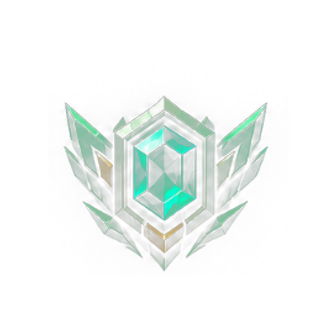
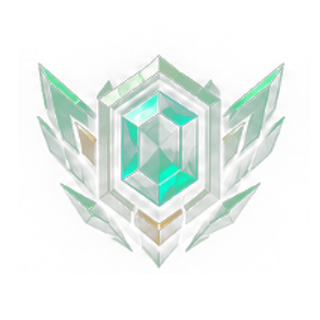
Fix badge centering (reflection ghost was skewing it) and make bigger
Iron, Bronze, Platinum, Silver, and Copper were visibly off-center in
their ring. Root cause: several of the source renders have a faint
reflection ghosted below the main badge, and it was bright enough to
get counted as part of the "solid" silhouette when measuring where to
center the crop — pulling the computed center downward by however far
that reflection extended. Raised the brightness threshold used to
detect the solid badge silhouette so the dimmer reflection no longer
counts, and switched from a brightness-weighted centroid to the
geometric midpoint of the solid bounding box, which is less sensitive
to any one bright feature (a highlight, a gem facet) sitting off to one
side. Confirmed with a center-crosshair overlay before regenerating
the real files.

Also tightened the crop margin so each badge fills more of its own
canvas (2.35x its own mass-weighted spread down to 2.1x), and bumped
the leaderboard tier ladder's on-screen size (top rung 3.5rem -> 4.5rem,
the rest 2.75rem -> 3.5rem) with less inner padding around the icon —
between the two, every tier reads noticeably larger without touching
the ring/animation styling.

Verified all 10 tiers on the real /leaderboard page. tsc/eslint/vitest/
next build all clean.

Changed region(s): [[0.0938, 0.1562, 0.9062, 0.8438]]

diff --git a/src/features/leaderboard/tier-ladder.tsx b/src/features/leaderboard/tier-ladder.tsx
@@ -10,8 +10,8 @@ export function TierLadder() {
       <div className="relative z-10 flex flex-col gap-3">
         {RANK_TIERS.map(({ tier }, i) => (
           <div key={tier} className="flex items-center gap-4">
-            <div className="flex w-16 flex-shrink-0 items-center justify-center">
-              <TierSwatch tier={tier} className={i === 0 ? "h-14 w-14" : "h-11 w-11"} />
+            <div className="flex w-20 flex-shrink-0 items-center justify-center">
+              <TierSwatch tier={tier} className={i === 0 ? "h-[4.5rem] w-[4.5rem]" : "h-14 w-14"} />
             </div>
             <div className="min-w-0">
               <p className={`font-semibold ${i === 0 ? "text-base" : "text-sm"}`}>

diff --git a/src/features/garage/tier-swatch.tsx b/src/features/garage/tier-swatch.tsx
@@ -16,7 +16,7 @@ export function TierSwatch({
   const Icon = RANK_MATERIAL_ICONS[tier];
   return (
     <div className={`rank-frame rank-${tier} rounded-full ${className}`}>
-      <div className="flex h-full w-full items-center justify-center rounded-full bg-surface p-1.5">
+      <div className="flex h-full w-full items-center justify-center rounded-full bg-surface p-1">
         <Icon className="h-full w-full" />
       </div>
     </div>
